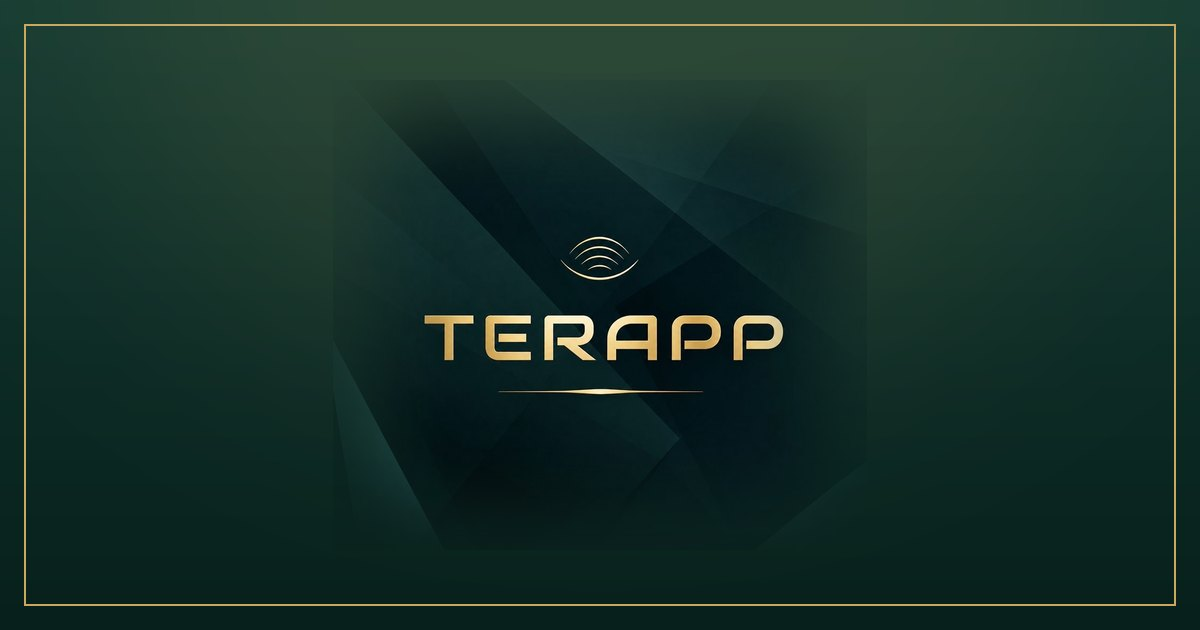
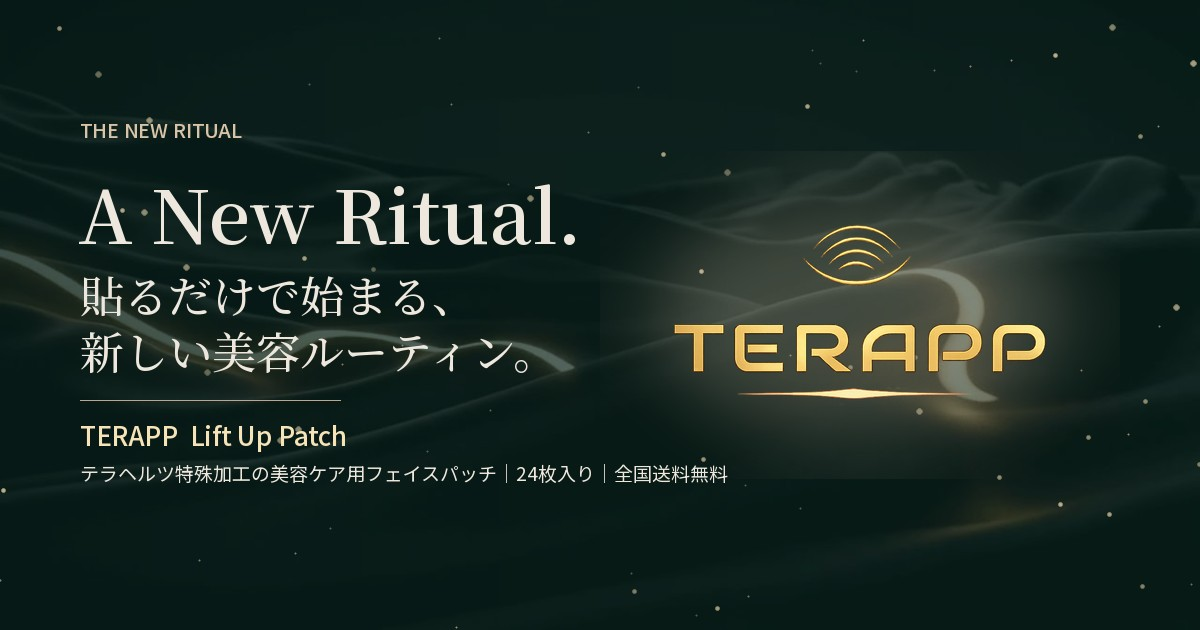
lp001: 公開前最終仕上げ（ブランドOGP画像/SEOタイトル・説明/JSON-LD WebPage追加/llms.txt刷新/sitemap lastmod/下層ページcanonical+OGP/heroプリロード）

diff --git a/lp001/index.html b/lp001/index.html
@@ -6,33 +6,45 @@
 <meta name="robots" content="index,follow">
 
 <!-- ===== SEO ===== -->
-<title>TERAPP Lift Up Patch｜貼る美容習慣を毎日に</title>
-<meta name="description" content="テラヘルツ特殊加工を施した美容ケア用パッチ「TERAPP Lift Up Patch」。フェイスライン、頬、首元など、気になる部分の毎日の美容ケアに。">
+<title>TERAPP Lift Up Patch｜貼るだけで始まる、新しい美容ルーティン</title>
+<meta name="description" content="テラヘルツ特殊加工を施した美容ケア用フェイスパッチ「TERAPP Lift Up Patch」。フェイスライン・頬・首元など気になる部分に貼るだけ。1セット24枚入り 2,200円（税込）・全国送料無料。忙しい毎日に、無理なく続く“貼る”セルフケア習慣を。">
 <meta name="author" content="TERAPP">
 <meta name="theme-color" content="#0C2A25">
 
-<!-- canonical/OGP: 本番ドメイン terapp.jp を正とする（GitHub Pagesにカスタムドメイン設定＝CNAME同梱／DNSはクライアント側作業）
-     TODO: 専用OGP画像(1200x630)を用意でき次第 og:image / twitter:image を差し替える -->
+<!-- canonical/OGP: 本番ドメイン terapp.jp を正とする -->
 <link rel="canonical" href="https://terapp.jp/lp001/">
 
 <!-- ===== OGP ===== -->
 <meta property="og:type" content="product">
 <meta property="og:site_name" content="TERAPP">
-<meta property="og:title" content="TERAPP Lift Up Patch｜貼る美容習慣を毎日に">
-<meta property="og:description" content="テラヘルツ特殊加工を施した美容ケア用パッチ。フェイスライン・頬・首元の毎日の美容ケアに。">
+<meta property="og:title" content="TERAPP Lift Up Patch｜貼るだけで始まる、新しい美容ルーティン">
+<meta property="og:description" content="貼るだけで始まる、新しい美容ルーティン。テラヘルツ特殊加工の美容ケア用フェイスパッチ。24枚入り／全国送料無料。">
 <meta property="og:url" content="https://terapp.jp/lp001/">
 <meta property="og:image" content="https://terapp.jp/lp001/images/terapp-ogp.jpg">
+<meta property="og:image:secure_url" content="https://terapp.jp/lp001/images/terapp-ogp.jpg">
+<meta property="og:image:type" content="image/jpeg">
+<meta property="og:image:width" content="1200">
+<meta property="og:image:height" content="630">
+<meta property="og:image:alt" content="TERAPP Lift Up Patch — A New Ritual. 貼るだけで始まる、新しい美容ルーティン。">
 <meta property="og:locale" content="ja_JP">
+<meta property="product:price:amount" content="2200">
+<meta property="product:price:currency" content="JPY">
 
 <!-- ===== Twitter Card ===== -->
 <meta name="twitter:card" content="summary_large_image">
-<meta name="twitter:title" content="TERAPP Lift Up Patch｜貼る美容習慣を毎日に">
-<meta name="twitter:description" content="テラヘルツ特殊加工を施した美容ケア用パッチ。毎日の美容習慣に。">
+<meta name="twitter:title" content="TERAPP Lift Up Patch｜貼るだけで始まる、新しい美容ルーティン">
+<meta name="twitter:description" content="貼るだけで始まる、新しい美容ルーティン。テラヘルツ特殊加工の美容ケア用フェイスパッチ。24枚入り／全国送料無料。">
 <meta name="twitter:image" content="https://terapp.jp/lp001/images/terapp-ogp.jpg">
+<meta name="twitter:image:alt" content="TERAPP Lift Up Patch — A New Ritual. 貼るだけで始まる、新しい美容ルーティン。">
 
 <link rel="icon" href="favicon.svg" type="image/svg+xml">
 <link rel="apple-touch-icon" href="apple-touch-icon.png">
 <link rel="manifest" href="site.webmanifest">
+<!-- LLMO: AI検索/生成AI向けの要約ファイル -->
+<link rel="alternate" type="text/plain" href="llms.txt" title="LLM-friendly summary">
+<link rel="sitemap" type="application/xml" href="sitemap.xml">
+<!-- LCP: ヒーローの初期表示画像を先読み -->
+<link rel="preload" as="image" href="images/hero-poster.jpg" fetchpriority="high">
 
 <!-- ===== Fonts (欧文ディスプレイ Cormorant×Manrope / 和文 Noto Serif JP×Noto Sans JP) ===== -->
 <link rel="preconnect" href="https://fonts.googleapis.com">
@@ -52,8 +64,9 @@
       "@id": "https://terapp.jp/#org",
       "name": "TERAPP",
       "url": "https://terapp.jp/",
-      "logo": "https://terapp.jp/favicon.svg",
-      "email": "support@terapp.jp"
+      "logo": "https://terapp.jp/lp001/images/terapp-logo.png",
+      "email": "support@terapp.jp",
+      "sameAs": ["https://lin.ee/5e2twWr", "https://terapp.base.shop/"]
     },
     {
       "@type": "WebSite",
@@ -68,14 +81,27 @@
       "@id": "https://terapp.jp/lp001/#product",
       "name": "TERAPP Lift Up Patch",
       "alternateName": "テラップ リフトアップパッチ",
-      "description": "テラヘルツ特殊加工を施した美容ケア用のフェイスパッチ。フェイスライン、頬、首元など、印象が気になる部分に貼って使用します。本商品は雑貨であり、医薬品・医薬部外品・化粧品・医療機器ではありません。",
+      "description": "テラヘルツ特殊加工を施した美容ケア用のフェイスパッチ。フェイスライン、頬、首元など、印象が気になる部分に貼って使用します。1セット24枚入り。本商品は雑貨であり、医薬品・医薬部外品・化粧品・医療機器ではありません。",
       "brand": { "@id": "https://terapp.jp/#org" },
       "category": "Beauty",
-      "image": "https://terapp.jp/lp001/images/terapp-concept.jpg",
+      "image": ["https://terapp.jp/lp001/images/package.jpg", "https://terapp.jp/lp001/images/terapp-ogp.jpg"],
+      "material": "テラヘルツ特殊加工パッチ",
       "offers": [
         { "@type": "Offer", "name": "1セット", "price": "2200", "priceCurrency": "JPY", "url": "https://terapp.jp/lp001/#pricing" },
         { "@type": "Offer", "name": "3セット", "price": "5500", "priceCurrency": "JPY", "url": "https://terapp.jp/lp001/#pricing" }
       ]
+    },
+    {
+      "@type": "WebPage",
+      "@id": "https://terapp.jp/lp001/#webpage",
+      "url": "https://terapp.jp/lp001/",
+      "name": "TERAPP Lift Up Patch｜貼るだけで始まる、新しい美容ルーティン",
+      "description": "テラヘルツ特殊加工を施した美容ケア用フェイスパッチ「TERAPP Lift Up Patch」。フェイスライン・頬・首元など気になる部分に貼るだけ。1セット24枚入り 2,200円（税込）・全国送料無料。忙しい毎日に、無理なく続く“貼る”セルフケア習慣を。",
+      "inLanguage": "ja",
+      "isPartOf": { "@id": "https://terapp.jp/#website" },
+      "about": { "@id": "https://terapp.jp/lp001/#product" },
+      "primaryImageOfPage": "https://terapp.jp/lp001/images/terapp-ogp.jpg",
+      "dateModified": "2026-09-09"
     },
     {
       "@type": "BreadcrumbList",

diff --git a/lp001/tokushoho.html b/lp001/tokushoho.html
@@ -6,6 +6,18 @@
 <meta name="robots" content="index,follow">
 <title>特定商取引法に基づく表記｜TERAPP</title>
 <meta name="description" content="TERAPP（テラップ）の特定商取引法に基づく表記。販売事業者・所在地・連絡先・販売価格・お支払い・お届け・返品交換条件を記載します。">
+<link rel="canonical" href="https://terapp.jp/lp001/tokushoho.html">
+<meta property="og:type" content="website">
+<meta property="og:site_name" content="TERAPP">
+<meta property="og:title" content="特定商取引法に基づく表記｜TERAPP Lift Up Patch">
+<meta property="og:description" content="TERAPP（テラップ）の特定商取引法に基づく表記。販売事業者・所在地・連絡先・販売価格・お支払い・お届け・返品交換条件を記載します。">
+<meta property="og:url" content="https://terapp.jp/lp001/tokushoho.html">
+<meta property="og:image" content="https://terapp.jp/lp001/images/terapp-ogp.jpg">
+<meta property="og:image:width" content="1200">
+<meta property="og:image:height" content="630">
+<meta property="og:locale" content="ja_JP">
+<meta name="twitter:card" content="summary_large_image">
+<meta name="twitter:image" content="https://terapp.jp/lp001/images/terapp-ogp.jpg">
 <link rel="icon" href="favicon.svg" type="image/svg+xml">
 <link rel="preconnect" href="https://fonts.googleapis.com">
 <link rel="preconnect" href="https://fonts.gstatic.com" crossorigin>

diff --git a/lp001/privacy.html b/lp001/privacy.html
@@ -6,6 +6,18 @@
 <meta name="robots" content="index,follow">
 <title>プライバシーポリシー｜TERAPP</title>
 <meta name="description" content="TERAPP（テラップ）のプライバシーポリシー。お客様の個人情報の取得・利用目的・管理・第三者提供・開示等の取り扱いについて定めます。">
+<link rel="canonical" href="https://terapp.jp/lp001/privacy.html">
+<meta property="og:type" content="website">
+<meta property="og:site_name" content="TERAPP">
+<meta property="og:title" content="プライバシーポリシー｜TERAPP Lift Up Patch">
+<meta property="og:description" content="TERAPP（テラップ）のプライバシーポリシー。お客様の個人情報の取得・利用目的・管理・第三者提供・開示等の取り扱いについて定めます。">
+<meta property="og:url" content="https://terapp.jp/lp001/privacy.html">
+<meta property="og:image" content="https://terapp.jp/lp001/images/terapp-ogp.jpg">
+<meta property="og:image:width" content="1200">
+<meta property="og:image:height" content="630">
+<meta property="og:locale" content="ja_JP">
+<meta name="twitter:card" content="summary_large_image">
+<meta name="twitter:image" content="https://terapp.jp/lp001/images/terapp-ogp.jpg">
 <link rel="icon" href="favicon.svg" type="image/svg+xml">
 <link rel="preconnect" href="https://fonts.googleapis.com">
 <link rel="preconnect" href="https://fonts.gstatic.com" crossorigin>

diff --git a/lp001/contact.html b/lp001/contact.html
@@ -6,6 +6,18 @@
 <meta name="robots" content="index,follow">
 <title>お問い合わせ｜TERAPP</title>
 <meta name="description" content="TERAPP（テラップ）へのお問い合わせ。メール・お電話、またはお問い合わせフォームからご連絡いただけます。">
+<link rel="canonical" href="https://terapp.jp/lp001/contact.html">
+<meta property="og:type" content="website">
+<meta property="og:site_name" content="TERAPP">
+<meta property="og:title" content="お問い合わせ｜TERAPP Lift Up Patch">
+<meta property="og:description" content="TERAPP（テラップ）へのお問い合わせ。メール・お電話、またはお問い合わせフォームからご連絡いただけます。">
+<meta property="og:url" content="https://terapp.jp/lp001/contact.html">
+<meta property="og:image" content="https://terapp.jp/lp001/images/terapp-ogp.jpg">
+<meta property="og:image:width" content="1200">
+<meta property="og:image:height" content="630">
+<meta property="og:locale" content="ja_JP">
+<meta name="twitter:card" content="summary_large_image">
+<meta name="twitter:image" content="https://terapp.jp/lp001/images/terapp-ogp.jpg">
 <link rel="icon" href="favicon.svg" type="image/svg+xml">
 <link rel="preconnect" href="https://fonts.googleapis.com">
 <link rel="preconnect" href="https://fonts.gstatic.com" crossorigin>

diff --git a/lp001/terms.html b/lp001/terms.html
@@ -6,6 +6,18 @@
 <meta name="robots" content="index,follow">
 <title>利用規約｜TERAPP</title>
 <meta name="description" content="TERAPP（テラップ）の利用規約。当サイトおよび商品のご利用にあたっての条件を定めます。">
+<link rel="canonical" href="https://terapp.jp/lp001/terms.html">
+<meta property="og:type" content="website">
+<meta property="og:site_name" content="TERAPP">
+<meta property="og:title" content="利用規約｜TERAPP Lift Up Patch">
+<meta property="og:description" content="TERAPP（テラップ）の利用規約。当サイトおよび商品のご利用にあたっての条件を定めます。">
+<meta property="og:url" content="https://terapp.jp/lp001/terms.html">
+<meta property="og:image" content="https://terapp.jp/lp001/images/terapp-ogp.jpg">
+<meta property="og:image:width" content="1200">
+<meta property="og:image:height" content="630">
+<meta property="og:locale" content="ja_JP">
+<meta name="twitter:card" content="summary_large_image">
+<meta name="twitter:image" content="https://terapp.jp/lp001/images/terapp-ogp.jpg">
 <link rel="icon" href="favicon.svg" type="image/svg+xml">
 <link rel="preconnect" href="https://fonts.googleapis.com">
 <link rel="preconnect" href="https://fonts.gstatic.com" crossorigin>
